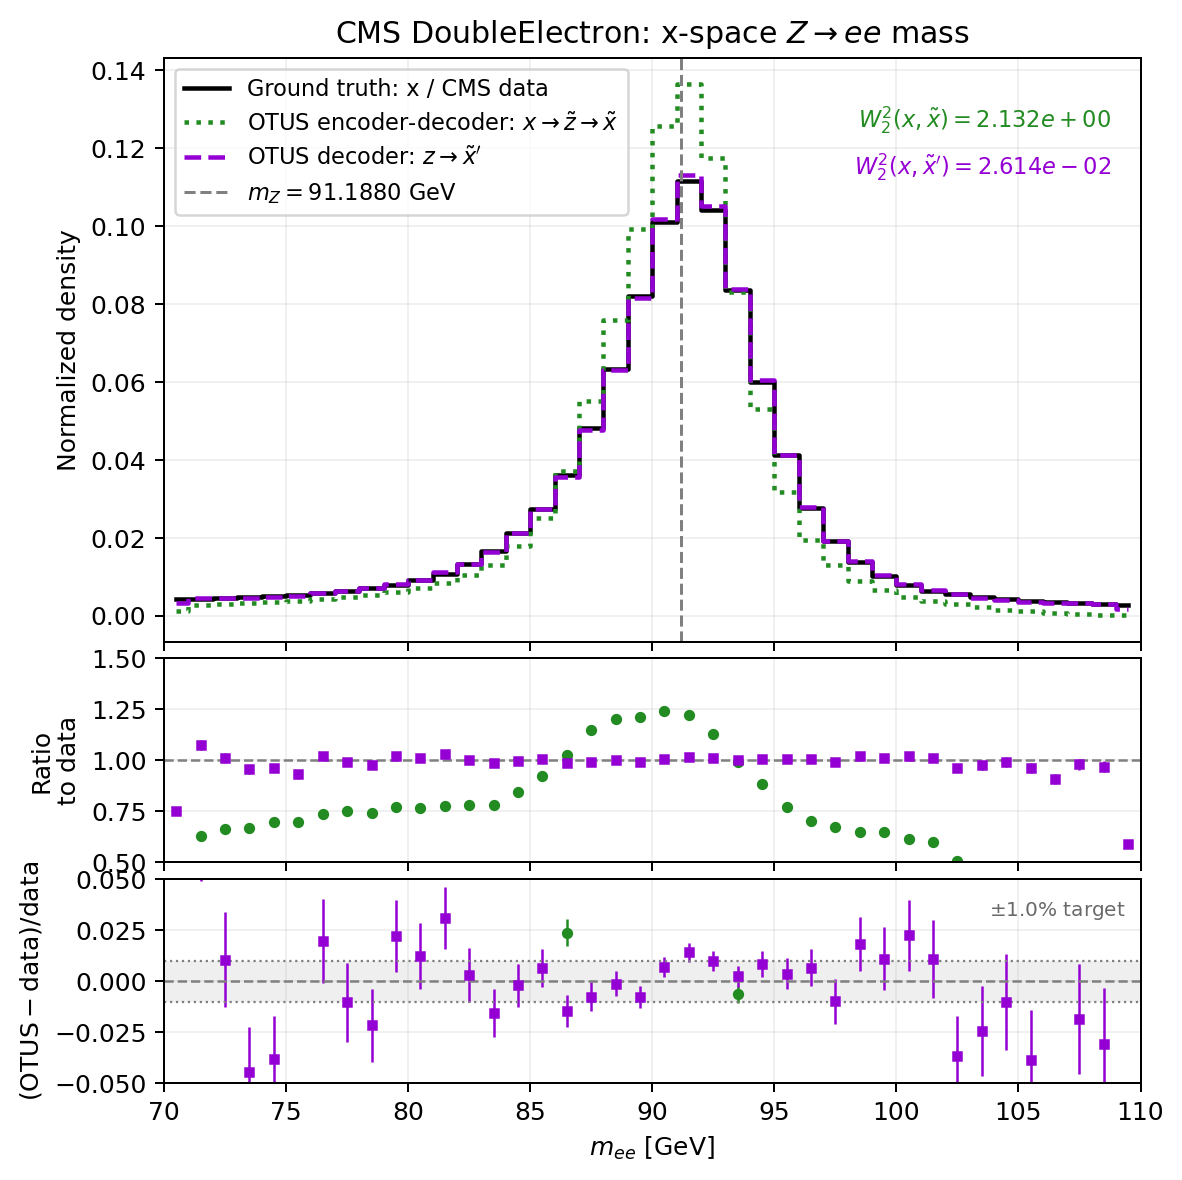
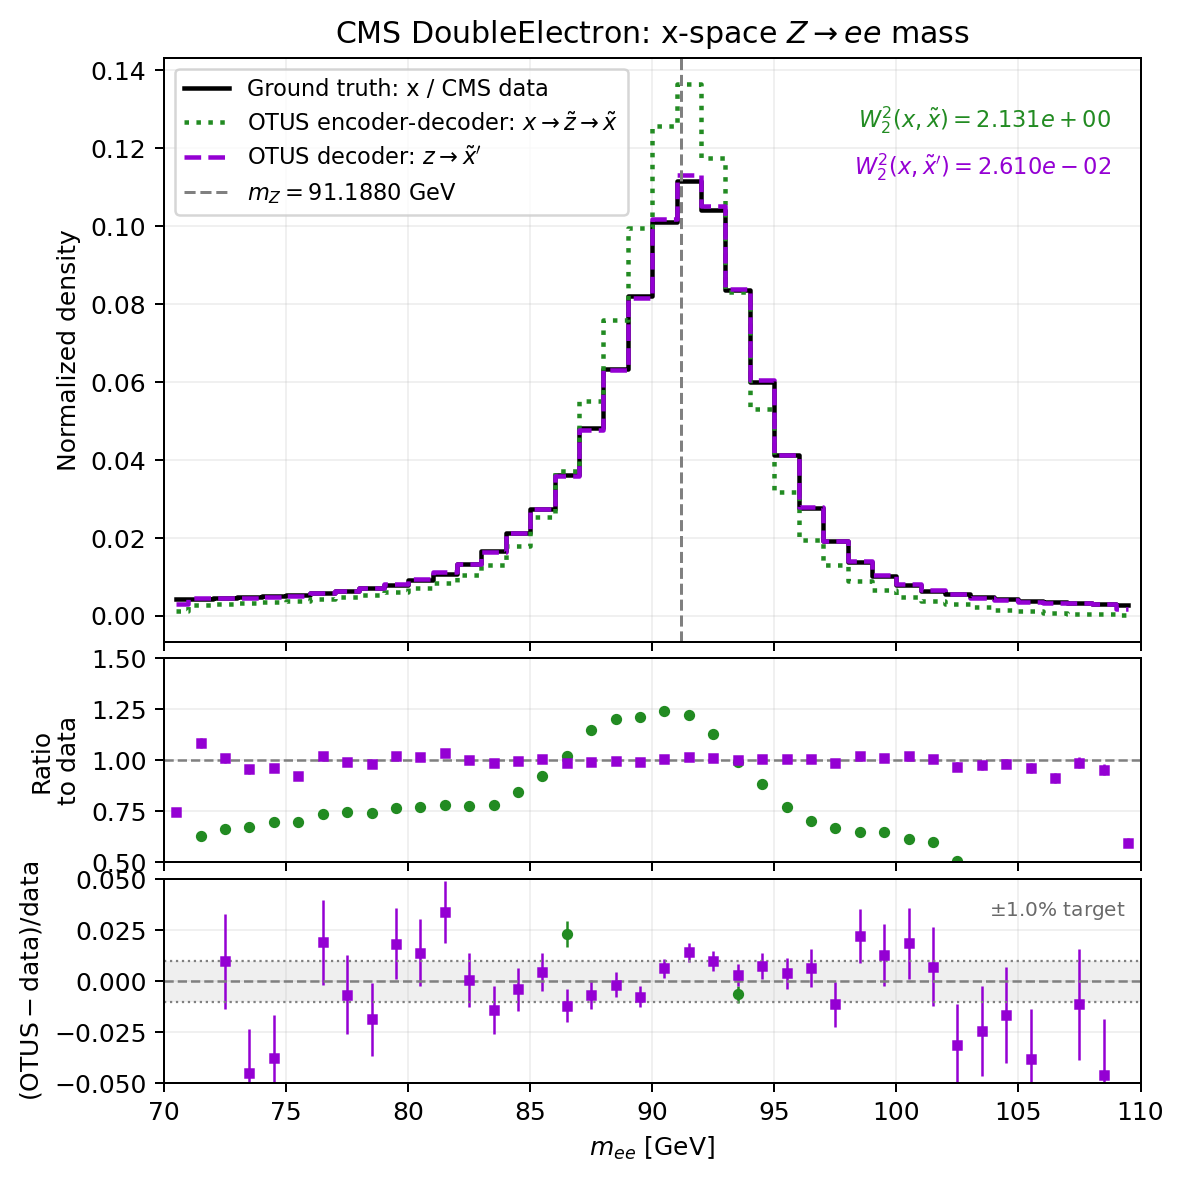
update thread control

diff --git a/scripts/plot.py b/scripts/plot.py
@@ -3,9 +3,56 @@ from __future__ import annotations
 import argparse
 import hashlib
 import json
+import os
 from pathlib import Path
+import sys
 import time
 from typing import Any
+
+
+def available_thread_count() -> int:
+    return max(1, int(os.cpu_count() or 1))
+
+
+def parse_thread_count(value: str | int | None, default: int) -> int:
+    if value is None:
+        return default
+    if isinstance(value, int):
+        return max(1, value)
+    text = str(value).strip().lower()
+    if text in {"", "auto", "max", "all"}:
+        return default
+    count = int(text)
+    if count < 1:
+        raise ValueError(f"Thread count must be >= 1, got {value!r}.")
+    return count
+
+
+def thread_value_from_argv(flag: str, argv: list[str], default: str = "auto") -> str:
+    prefix = f"{flag}="
+    for idx, item in enumerate(argv):
+        if item == flag and idx + 1 < len(argv):
+            return argv[idx + 1]
+        if item.startswith(prefix):
+            return item[len(prefix) :]
+    return default
+
+
+MAX_THREADS = available_thread_count()
+PLOT_THREAD_COUNT = parse_thread_count(thread_value_from_argv("--threads", sys.argv), MAX_THREADS)
+PLOT_INTEROP_THREAD_COUNT = parse_thread_count(
+    thread_value_from_argv("--interop-threads", sys.argv),
+    MAX_THREADS,
+)
+
+for env_name in (
+    "OMP_NUM_THREADS",
+    "MKL_NUM_THREADS",
+    "OPENBLAS_NUM_THREADS",
+    "VECLIB_MAXIMUM_THREADS",
+    "NUMEXPR_NUM_THREADS",
+):
+    os.environ[env_name] = str(PLOT_THREAD_COUNT)
 
 import matplotlib
 
@@ -86,6 +133,16 @@ def parse_args() -> argparse.Namespace:
         default=10,
         help="Log inference progress every N batches. Use 0 to log only phase boundaries.",
     )
+    parser.add_argument(
+        "--threads",
+        default="auto",
+        help="CPU worker threads for NumPy/OpenMP/Torch. Use auto/max/all for all logical CPUs.",
+    )
+    parser.add_argument(
+        "--interop-threads",
+        default="auto",
+        help="PyTorch inter-op threads. Use auto/max/all for all logical CPUs.",
+    )
     parser.add_argument("--seed", type=int, default=None, help="Plot subsampling seed.")
     parser.add_argument(
         "--counts",
@@ -105,6 +162,32 @@ def finite_values(a: np.ndarray) -> np.ndarray:
 
 def log_progress(message: str) -> None:
     print(f"[plot {time.strftime('%H:%M:%S')}] {message}", flush=True)
+
+
+def configure_torch_threads(threads: int, interop_threads: int) -> dict[str, int | str]:
+    result: dict[str, int | str] = {
+        "requested_threads": int(threads),
+        "requested_interop_threads": int(interop_threads),
+    }
+    try:
+        torch.set_num_threads(int(threads))
+    except RuntimeError as exc:
+        result["set_num_threads_error"] = str(exc)
+    try:
+        torch.set_num_interop_threads(int(interop_threads))
+    except RuntimeError as exc:
+        result["set_num_interop_threads_error"] = str(exc)
+    result["torch_num_threads"] = int(torch.get_num_threads())
+    result["torch_num_interop_threads"] = int(torch.get_num_interop_threads())
+    for env_name in (
+        "OMP_NUM_THREADS",
+        "MKL_NUM_THREADS",
+        "OPENBLAS_NUM_THREADS",
+        "VECLIB_MAXIMUM_THREADS",
+        "NUMEXPR_NUM_THREADS",
+    ):
+        result[env_name] = os.environ.get(env_name, "")
+    return result
 
 
 def finite_8d(a: np.ndarray, name: str) -> np.ndarray:
@@ -775,7 +858,16 @@ def json_safe(value: Any) -> Any:
 
 def main() -> None:
     args = parse_args()
+    threads = parse_thread_count(args.threads, MAX_THREADS)
+    interop_threads = parse_thread_count(args.interop_threads, MAX_THREADS)
+    thread_report = configure_torch_threads(threads, interop_threads)
     log_progress("Starting CMS DoubleElectron plot generation.")
+    log_progress(
+        "Thread configuration: "
+        f"threads={thread_report['torch_num_threads']}, "
+        f"interop_threads={thread_report['torch_num_interop_threads']}, "
+        f"max_available={MAX_THREADS}"
+    )
     config = resolve_config(load_config(args.config))
     seed = int(config.get("seed", 0) if args.seed is None else args.seed)
     density = not args.counts
@@ -1019,6 +1111,7 @@ def main() -> None:
         f"SPLIT: {split}",
         f"DATA_CACHE: {cache_info}",
         f"DEVICE: {device}",
+        f"THREADS: {thread_report}",
         f"HAS_SCIPY: {HAS_SCIPY}",
         f"z_mg5 shape: {z_plot.shape}",
         f"z_encoded shape: {z_encoded.shape}",
@@ -1064,6 +1157,7 @@ def main() -> None:
         "checkpoint_epoch": checkpoint.get("epoch"),
         "checkpoint_eval_loss": checkpoint.get("eval_loss"),
         "device_report": report,
+        "thread_report": thread_report,
         "split": split,
         "data_cache": cache_info,
         "density": density,